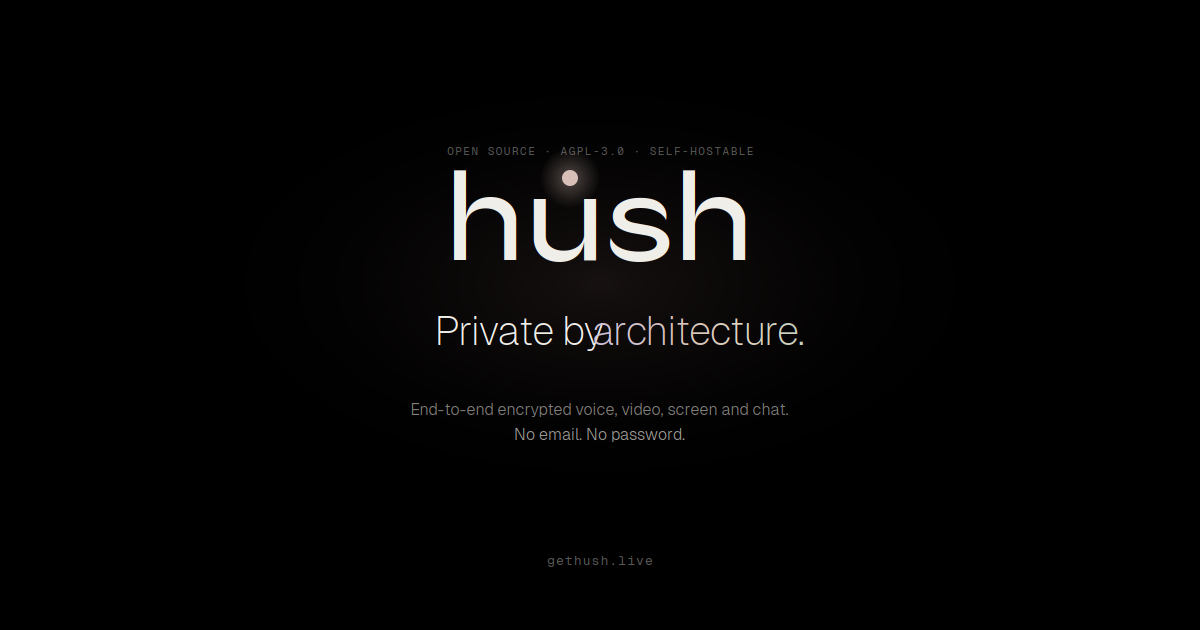
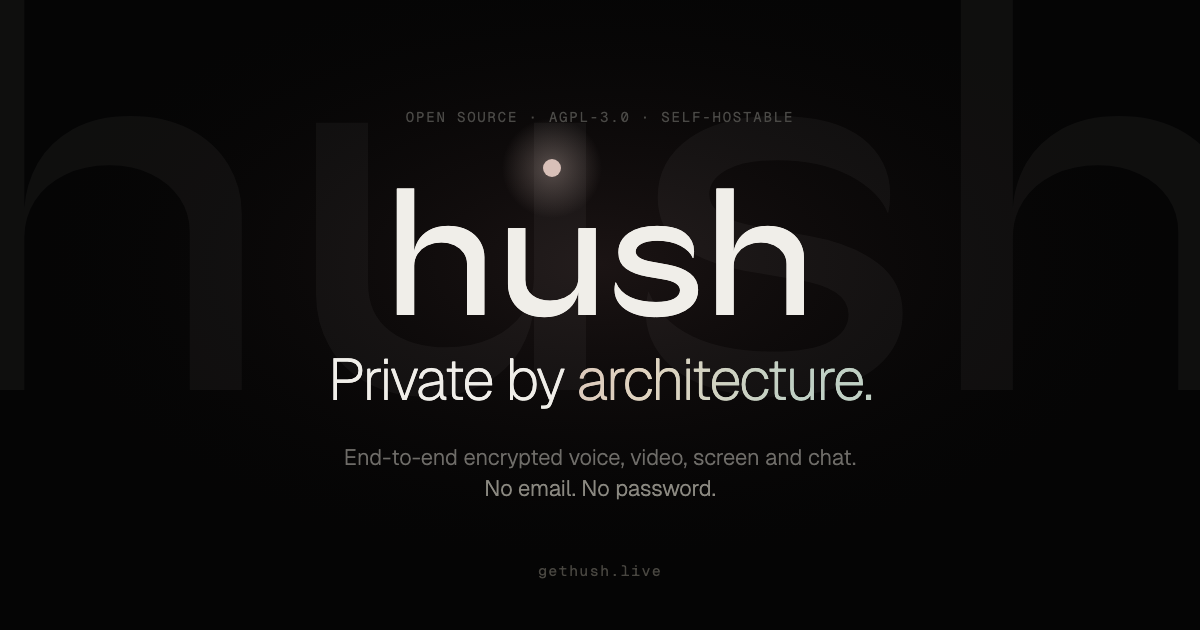
Update OG image asset and cache-bust web metadata

Changed region(s): [[0.2775, 0.181, 0.74, 0.7841], [0.4625, 0.8746, 0.555, 0.9349], [0.555, 0.181, 0.6475, 0.2413]]

diff --git a/index.html b/index.html
@@ -16,7 +16,7 @@
       if (a) a.href = dark ? '/apple-touch-icon.png' : '/apple-touch-icon-light.png';
     })();
   </script>
-  <meta property="og:image" content="https://gethush.live/og-image.png">
+  <meta property="og:image" content="https://gethush.live/og-image.png?v=47a36b2-og2">
   <meta property="og:title" content="hush: share your screen. keep your privacy.">
   <meta property="og:description" content="High-quality screen sharing with no resolution caps. Open source, self-hostable.">
   <meta name="twitter:card" content="summary_large_image">
